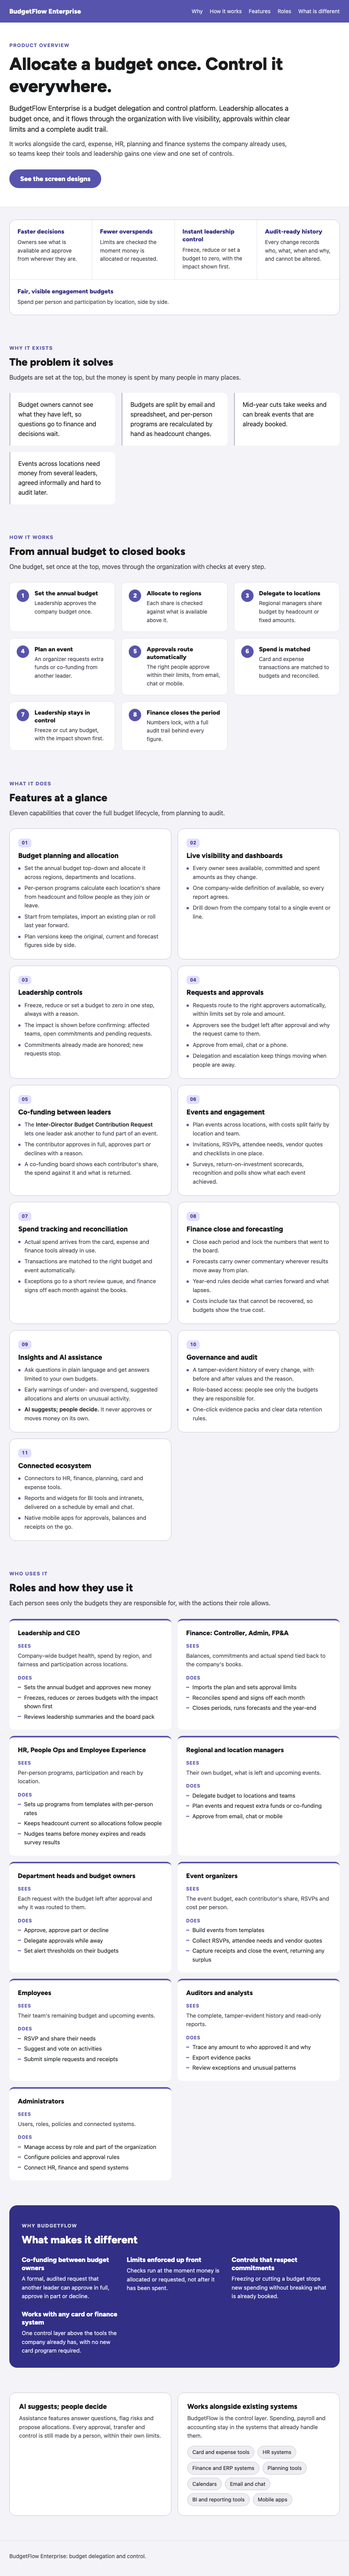
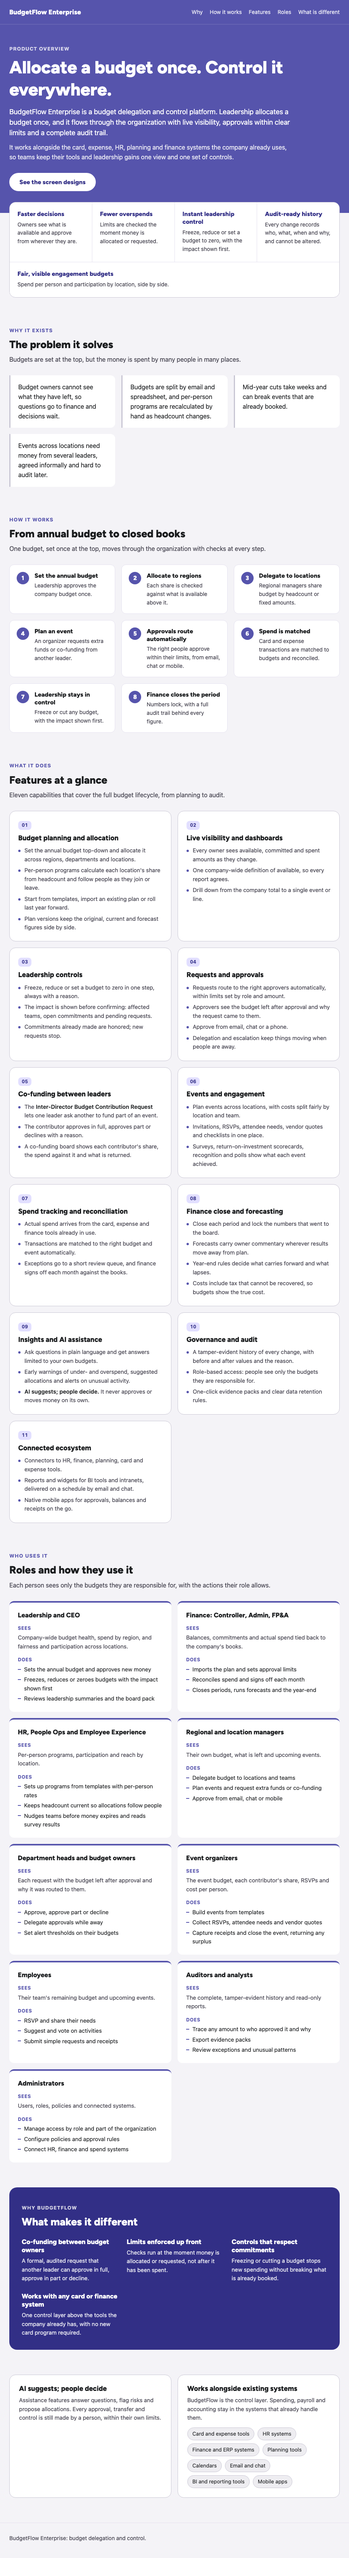
docs(evidence): record local checks of the restored overview with the hero link
Refreshed laptop, tablet, phone and print renders, the button's rest, hover and focus states, and the revision history.

diff --git a/evidence/leadership-overview/README.md b/evidence/leadership-overview/README.md
@@ -2,9 +2,9 @@
 
 - Page: `design/preview/overview/index.html`, published with the clickable design preview at https://narasimhahyland.github.io/budgetflow/overview/
 - Audience: company leadership. Plain business language, present tense, describing the finished product; no technical details.
-- Checked locally: 2026-11-05, Playwright 1.64.1 (Chromium) on the built site (`node design/preview/build.mjs`, then `dist/overview/index.html`).
+- Checked locally with Playwright 1.64.1 (Chromium) on the built site (`node design/preview/build.mjs`, then `dist/overview/index.html`). The `local-*.png` screenshots show the current page (revision 2).
 
-## Local checks (before merge)
+## Local checks
 
 | Check                                                                                                           | Expected                                                     | Result |
 | --------------------------------------------------------------------------------------------------------------- | ------------------------------------------------------------ | ------ |
@@ -17,42 +17,38 @@
 | Self-contained                                                                                                  | Inline CSS only; no scripts, external fonts or images        | pass   |
 | Public-content scan (internal tool names, figures, people, office cities, "prototype", emojis, technical terms) | No matches; only generic system categories                   | pass   |
 
-## Revision: "See the screen designs" is the primary action in the hero
+## Revisions
 
-The button moved from the footer to the hero, under the positioning text, as a filled primary button (`#5654ac`, white text). The hero body is now white, with a slim purple brand bar above it, so the button stands out; the footer keeps only its closing line. The `local-*.png` screenshots above show the revised page.
+1. [#30](https://github.com/narasimhahyland/budgetflow/pull/30) (superseded): white hero with a filled primary "See the screen designs" button. Reverted at the user's request because they preferred the original layout.
+2. Current: the page exactly as first merged in [#28](https://github.com/narasimhahyland/budgetflow/pull/28) (identical to `c0a105c`), with one change. The "See the screen designs" link moves from the footer into the purple hero, under the positioning text, as a white button with primary-coloured text (`#322f86` on white, about 11:1 contrast). The footer instance is removed, so the link appears once.
 
-| Check (local, 2026-11-05)                       | Expected                                                         | Result |
-| ----------------------------------------------- | ---------------------------------------------------------------- | ------ |
-| Button style at laptop, tablet and phone widths | Background `rgb(86, 84, 172)`, white text, in the first viewport | pass   |
-| Phone (iPhone 13)                               | Full-width button, no horizontal overflow                        | pass   |
-| Click the button                                | Opens the preview index (`../index.html`)                        | pass   |
-| Print view                                      | Button hidden, no links left in the footer                       | pass   |
+| Check (revision 2, local, 2026-11-05)                                                                                      | Expected                                                         | Result |
+| -------------------------------------------------------------------------------------------------------------------------- | ---------------------------------------------------------------- | ------ |
+| Diff against `c0a105c`                                                                                                     | Only the button styles, the hero link and the footer removal     | pass   |
+| Button at laptop, tablet and phone widths                                                                                  | White background, `rgb(50, 47, 134)` text, in the first viewport | pass   |
+| States ([rest](local-hero-link-rest.png), [hover](local-hero-link-hover.png), [keyboard focus](local-hero-link-focus.png)) | Hover turns light lavender; focus shows a white ring             | pass   |
+| Links to the screen designs on the page                                                                                    | Exactly one, in the hero                                         | pass   |
+| Click the button                                                                                                           | Opens the preview index (`../index.html`)                        | pass   |
+| Print view                                                                                                                 | Button hidden, no links in the footer                            | pass   |
+| No horizontal overflow                                                                                                     | At 1440 px, 900 px and phone width                               | pass   |
 
-## Live check (after deploy)
+## Live checks (after each deploy)
 
-- Merged in [#28](https://github.com/narasimhahyland/budgetflow/pull/28) (merge commit `ba9a1f0`), then published with `design/preview/deploy.sh` from that commit.
-- Checked: 2026-11-05 02:32 UTC, curl and Playwright 1.64.1 (Chromium) against https://narasimhahyland.github.io/budgetflow/overview/
+### First publish
+
+- Merged in [#28](https://github.com/narasimhahyland/budgetflow/pull/28) (merge commit `ba9a1f0`) and published with `design/preview/deploy.sh`. Checked 2026-11-05 02:32 UTC.
 
 | Check                                                                                 | Expected                                                | Result |
 | ------------------------------------------------------------------------------------- | ------------------------------------------------------- | ------ |
-| `curl -sI` on the live URL ([live-curl-headers.txt](live-curl-headers.txt))           | HTTP 200, `text/html`                                   | pass   |
+| `curl -sI` on the live URL                                                            | HTTP 200, `text/html`                                   | pass   |
 | Live index "Product overview" link ([live-preview-index.png](live-preview-index.png)) | Opens `/budgetflow/overview/`, title "Product overview" | pass   |
-| Live page at 1440 px ([live-desktop-1440.png](live-desktop-1440.png))                 | 5 sections, 8 steps, 11 feature pillars, 9 roles        | pass   |
-| Live page on a phone ([live-mobile-390.png](live-mobile-390.png))                     | HTTP 200, no horizontal overflow                        | pass   |
+| Live page at 1440 px and on a phone                                                   | 5 sections, 8 steps, 11 feature pillars, 9 roles        | pass   |
 | Console and page errors                                                               | None                                                    | pass   |
 
-The full-page `live-desktop-1440.png` and `live-mobile-390.png` were replaced by the revision check below.
+### Revision 1 (superseded)
 
-### Live check of the hero button revision
+- Merged in [#30](https://github.com/narasimhahyland/budgetflow/pull/30) (merge commit `a7b8b26`), checked live 2026-11-05 02:54 UTC: HTTP 200, filled primary button in a white hero, no footer links, no page errors. Its screenshots were replaced by the revision 2 check below.
 
-- Merged in [#30](https://github.com/narasimhahyland/budgetflow/pull/30) (merge commit `a7b8b26`), then published with `design/preview/deploy.sh` from that commit.
-- Checked: 2026-11-05 02:54 UTC, curl and Playwright 1.64.1 (Chromium) against https://narasimhahyland.github.io/budgetflow/overview/
+### Revision 2
 
-| Check                                                                                                                                | Expected                                                       | Result |
-| ------------------------------------------------------------------------------------------------------------------------------------ | -------------------------------------------------------------- | ------ |
-| `curl -sI` on the live URL ([live-curl-headers.txt](live-curl-headers.txt))                                                          | HTTP 200, `text/html`, new file (31630 bytes)                  | pass   |
-| Laptop, 1440 px ([live-desktop-1440-hero.png](live-desktop-1440-hero.png), full page [live-desktop-1440.png](live-desktop-1440.png)) | "See the screen designs" filled `#5654ac`, white text, in hero | pass   |
-| Phone, iPhone 13 ([live-mobile-390-hero.png](live-mobile-390-hero.png), full page [live-mobile-390.png](live-mobile-390.png))        | Full-width button in the first viewport, no overflow           | pass   |
-| Click the button                                                                                                                     | Opens `/budgetflow/index.html` (clickable design preview)      | pass   |
-| Footer                                                                                                                               | No links left                                                  | pass   |
-| Page errors                                                                                                                          | None                                                           | pass   |
+Recorded after the pull request merged and `design/preview/deploy.sh` published the site.
